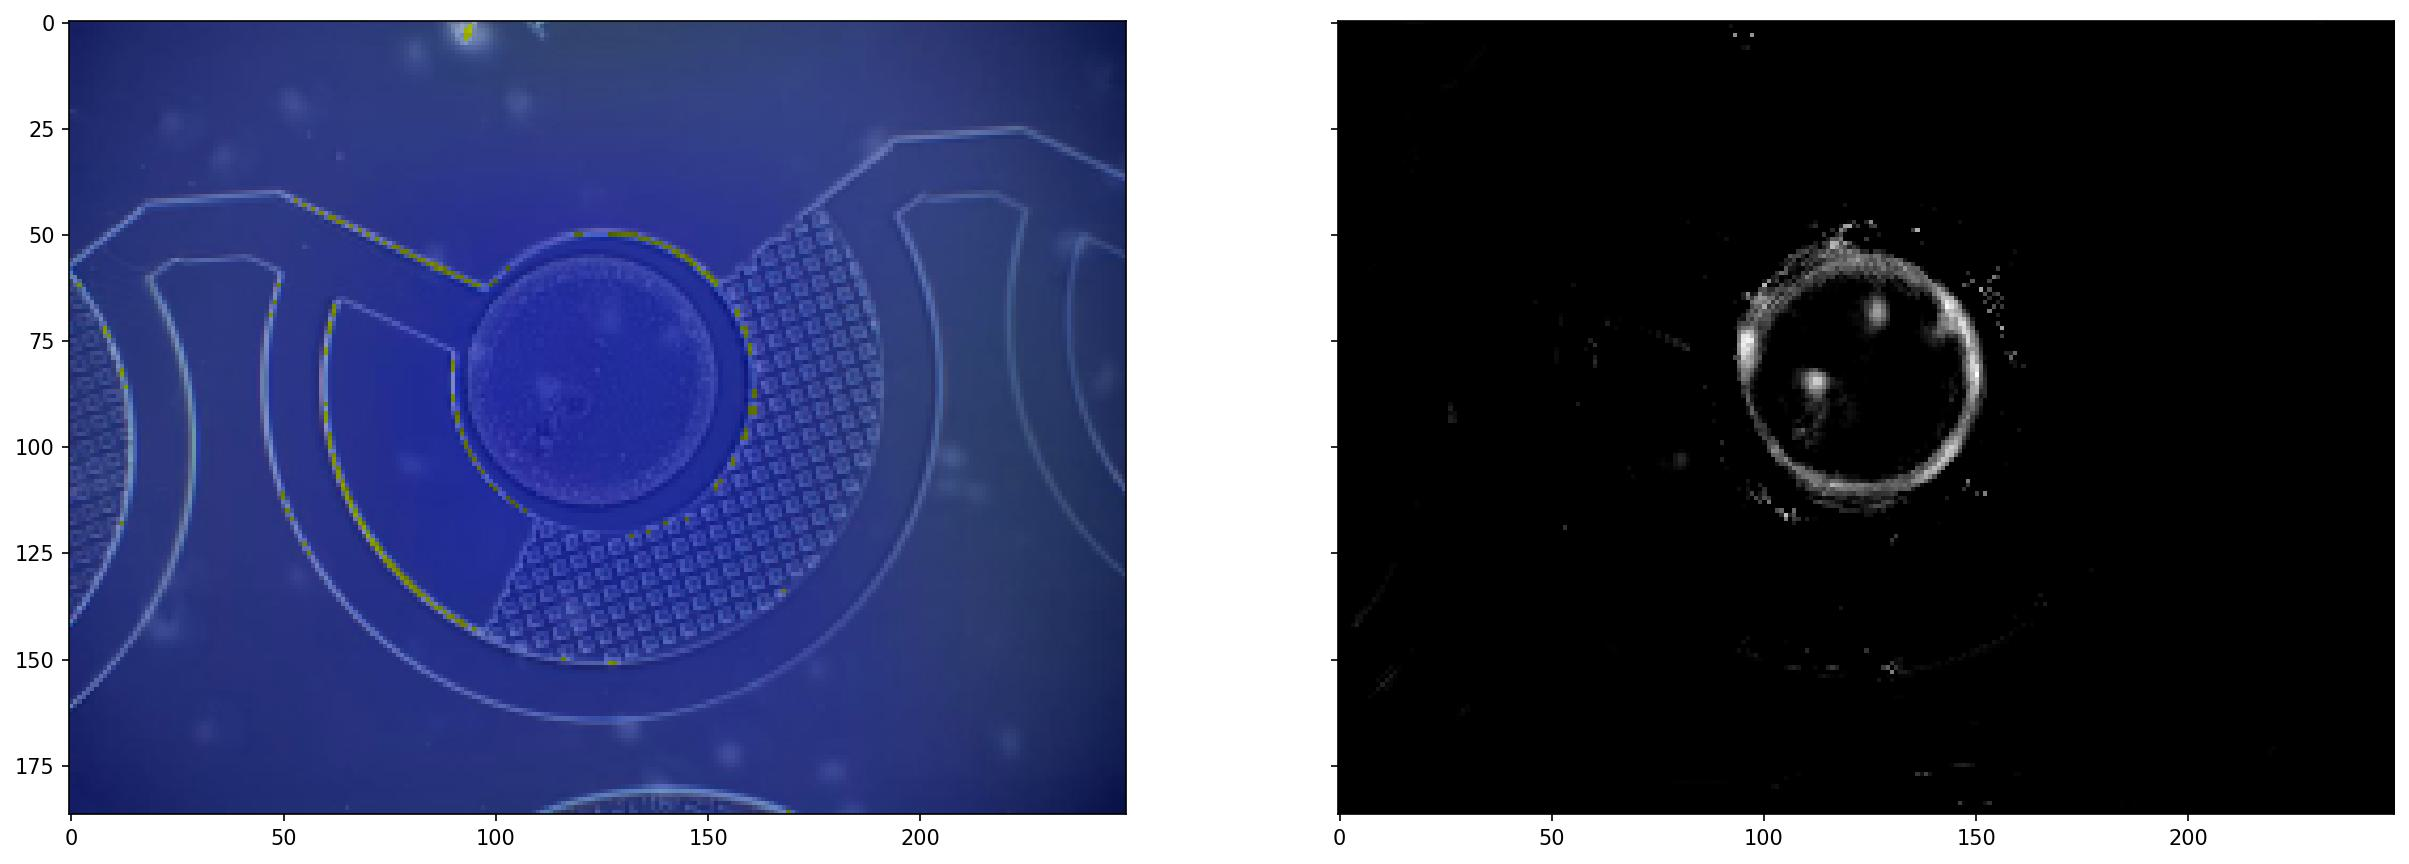
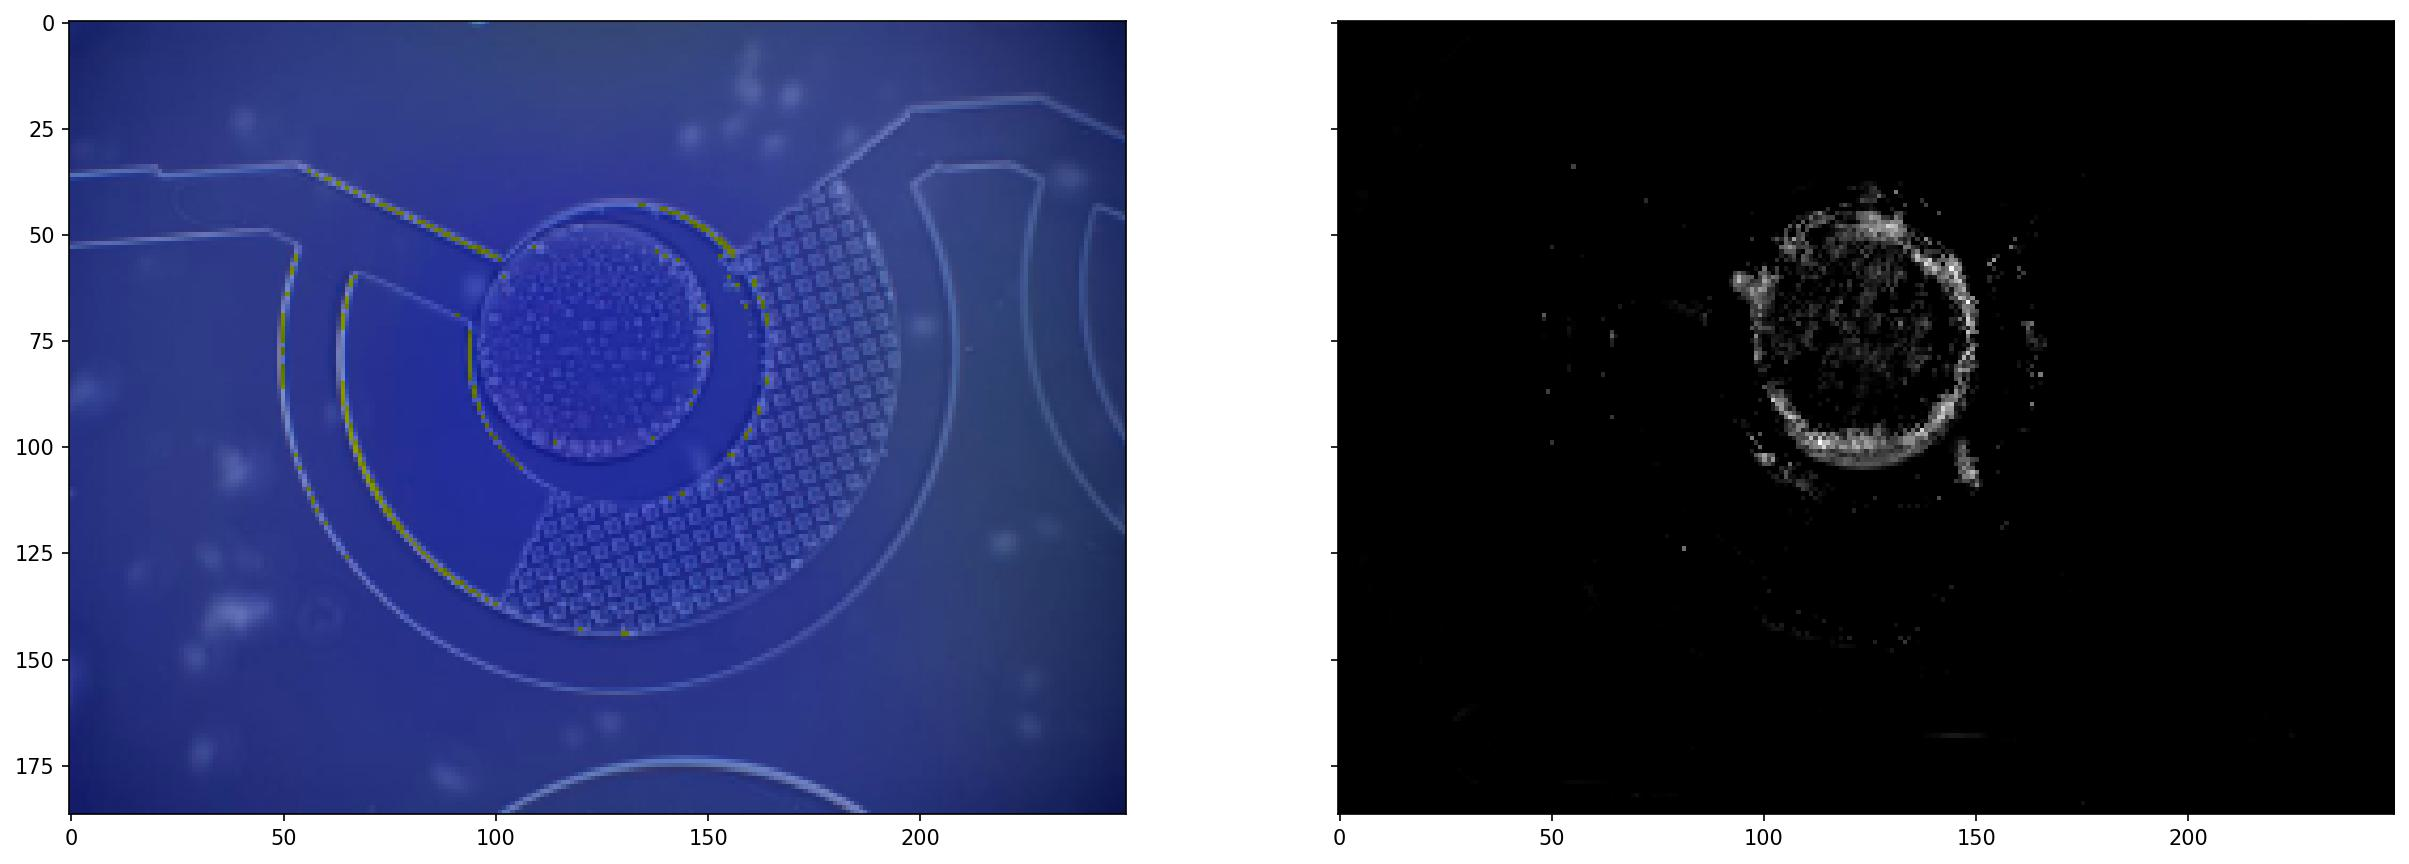
Updated result data and README

diff --git a/README.md b/README.md
@@ -2,7 +2,7 @@
 
 Use a Convolutional Neural Network built in TensorFlow and Keras to detect a droplet in an experimental data set.
 
-The neural net consists of 3 layers, and for testing data shows reasonable results as shown below:
+The neural net consists of 4 layers, and for testing data shows reasonable results as shown below:
 
 ![neural_net_results](results/test_data_result.png)
 
